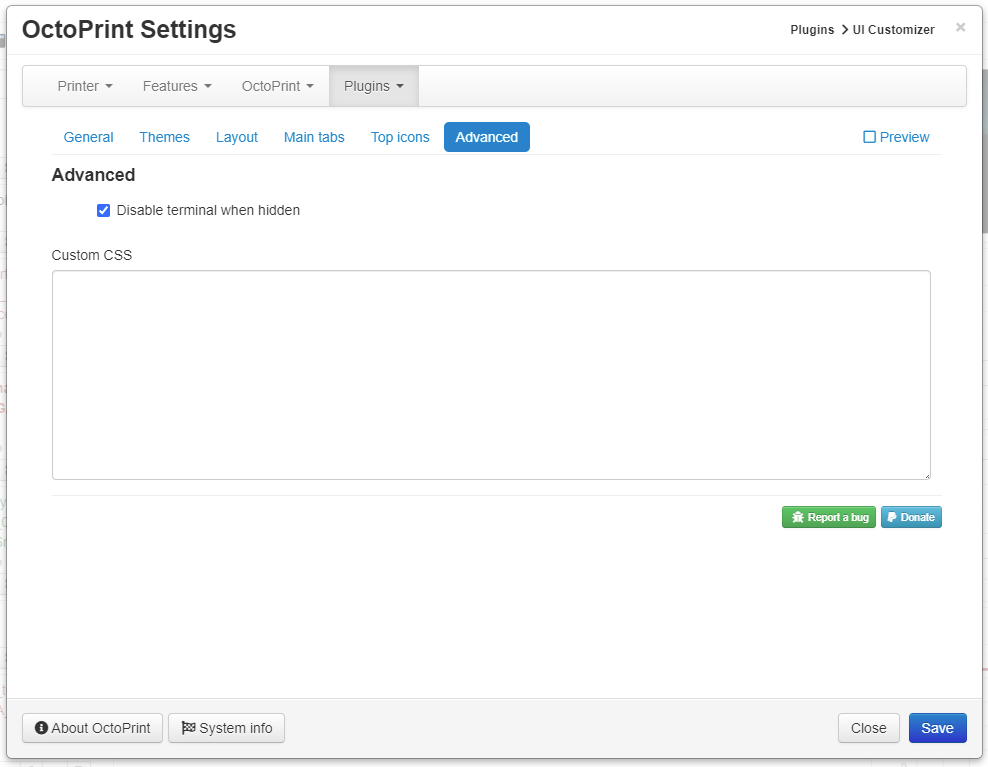
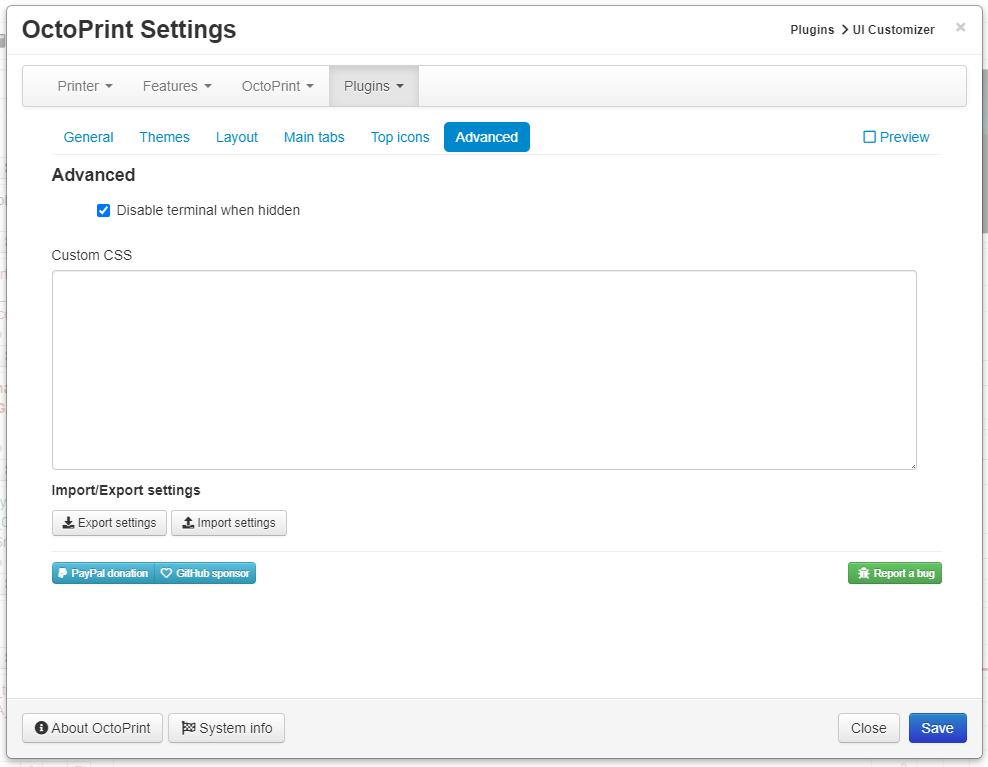
Updated readme and images

diff --git a/README.md b/README.md
@@ -104,9 +104,11 @@ This allows you to change the look & feel of the top icons in top menu/navbar
 
 ### Advanced
 
-![](extras/s5.png)<br/><br/>
+![](extras/s5.png?2)<br/><br/>
 * Disable terminal when hidden - Disables the terminal update when the terminal tab is in the background - gives a small perfomance boost.
 * Custom CSS - Enter any custom CSS styling you want to have applied
+* Export settings - Will export all the UI Customizer settings into a file that can be downloaded
+* Import settings - Will import an exported settings file - this can be usefull if you have settings you want to apply to several OctoPrint installations
 
 ## Donation/support
 If you like my work feel free to support me using paypal: https://www.paypal.com/donate/?business=2STH3SD3KXGNQ&item_name=UI+Customizer
